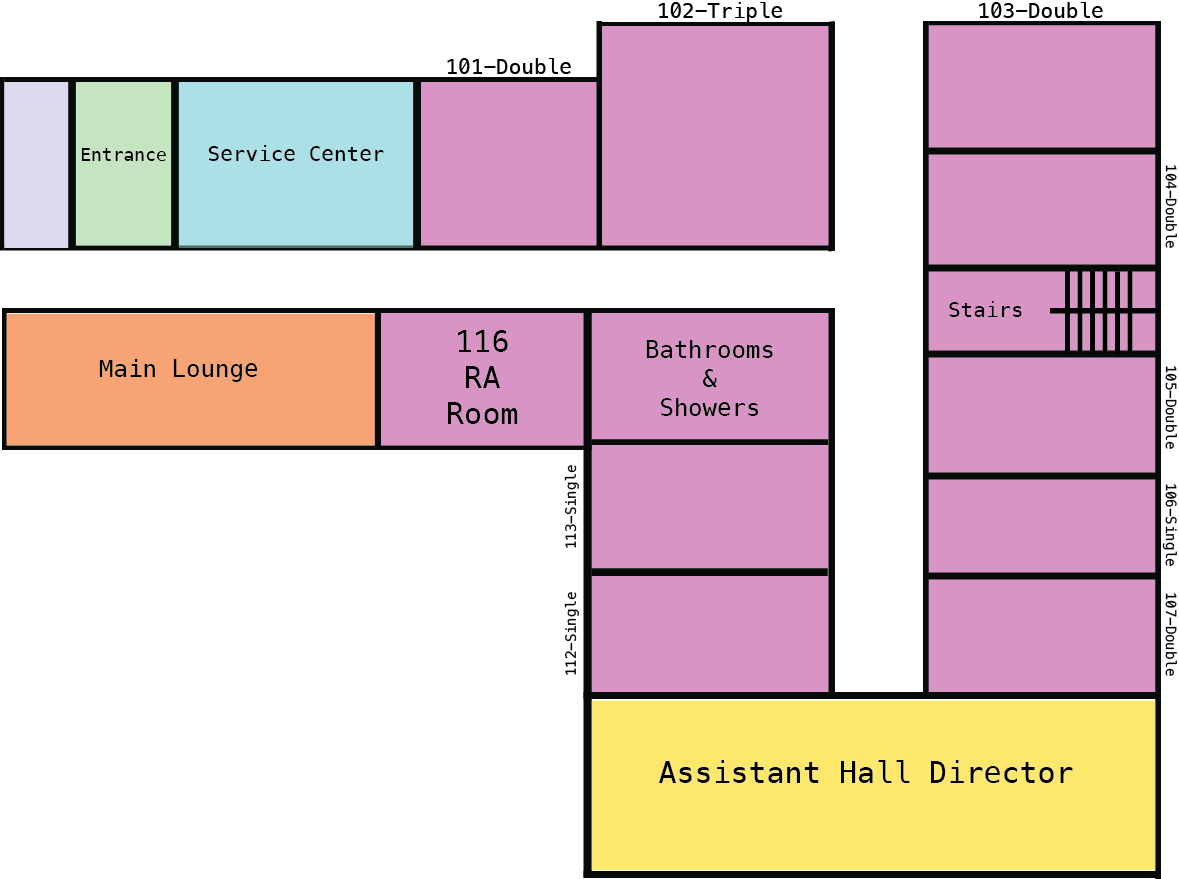
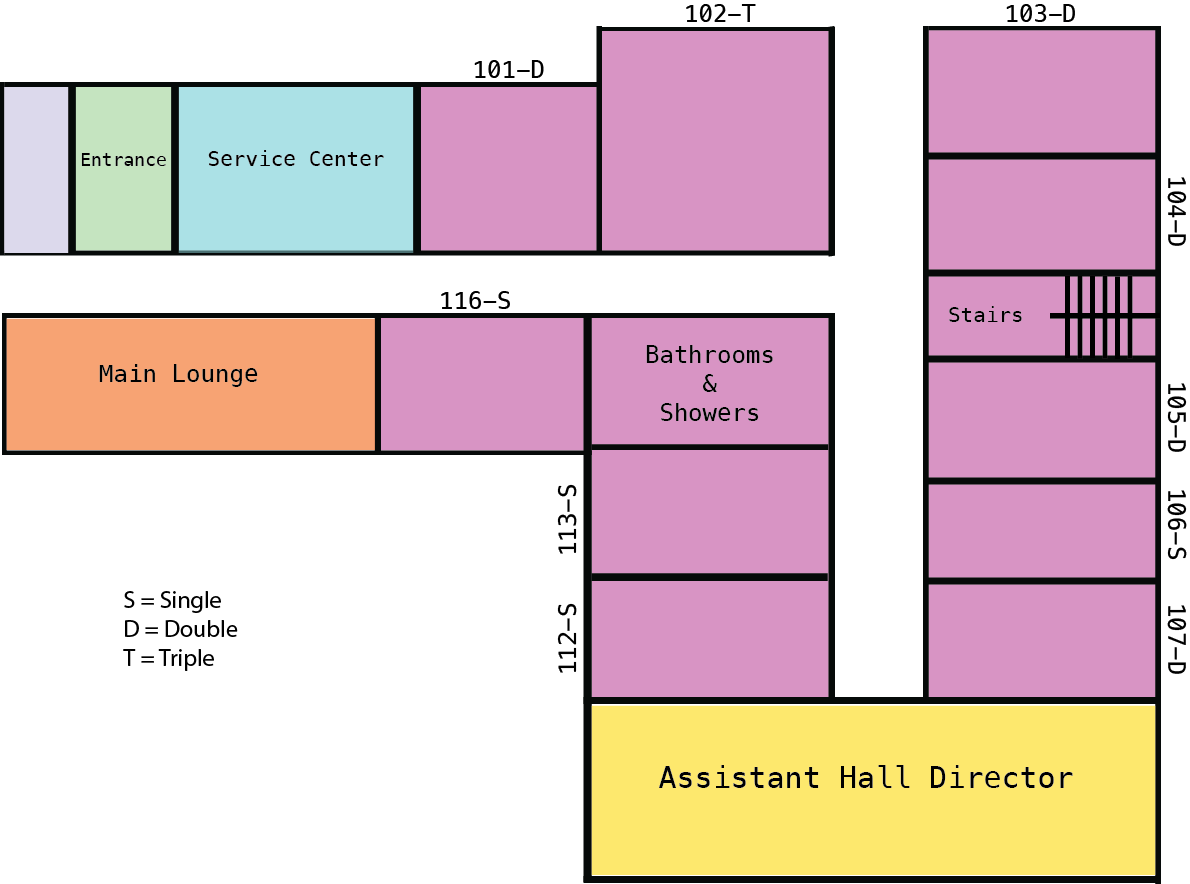
updating the pixal map for larsen and adding the basement

diff --git a/sr._Project/ProjectApp/static/pages/navigation-main.html b/sr._Project/ProjectApp/static/pages/navigation-main.html
@@ -95,145 +95,110 @@
 <div class = "larsen1" ng-show="currentBuilding === 'Larsen' && floorNumber == 1">
   <svg class="larsen1-svg">
 
-    <polygon class="clickable-building" points="293,36 415,35 416,107 294,107" ng-click="toggleRight(floorNumber, '01')"></polygon>
-    <polygon class="clickable-building" points="419,11 577,11 577,107 419,106" ng-click="toggleRight(floorNumber, '02')"></polygon>
-
-    <polygon class="clickable-building" points="647,11 804,11 803,64 647,64" ng-click="toggleRight(floorNumber, '03')"></polygon>
-    <polygon class="clickable-building" points="647,67 803,68 804,116 646,115" ng-click="toggleRight(floorNumber, '04')"></polygon>
-
-    <polygon class="clickable-building" points="647,156 803,156 803,207 646,206" ng-click="toggleRight(floorNumber, '05')"></polygon>
-    <polygon class="clickable-building" points="803,210 647,209 646,250 803,250" ng-click="toggleRight(floorNumber, '06')"></polygon>
-
-    <polygon class="clickable-building" points="647,254 803,254 803,303 646,303" ng-click="toggleRight(floorNumber, '07')"></polygon>
-    <polygon class="clickable-building" points=" 412,252 576,252 576,302 412,302" ng-click="toggleRight(floorNumber, '12')"></polygon>
-
-    <polygon class="clickable-building" points="412,195 577,195 577,248 412,248" ng-click="toggleRight(floorNumber, '13')"></polygon>
+    <polygon class="clickable-building" points="291,38 410,38 410,109 289,108" ng-click="toggleRight(floorNumber, '01')"></polygon>
+    <polygon class="clickable-building" points="415,14 571,14 571,109 415,109" ng-click="toggleRight(floorNumber, '02')"></polygon>
+    <polygon class="clickable-building" points="641,14 795,14 796,66 641,66" ng-click="toggleRight(floorNumber, '03')"></polygon>
+    <polygon class="clickable-building" points="641,70 796,70 795,117 640,117" ng-click="toggleRight(floorNumber, '04')"></polygon>
+    <polygon class="clickable-building" points="641,158 796,158 796,208 641,208" ng-click="toggleRight(floorNumber, '05')"></polygon>
+    <polygon class="clickable-building" points="640,211 795,212 796,252 639,251" ng-click="toggleRight(floorNumber, '06')"></polygon>
+    <polygon class="clickable-building" points="641,255 796,255 796,304 640,303" ng-click="toggleRight(floorNumber, '07')"></polygon>
+    <polygon class="clickable-building" points="408,253 570,253 571,303 407,303" ng-click="toggleRight(floorNumber, '12')"></polygon>
+    <polygon class="clickable-building" points="408,196 571,196 571,250 407,250" ng-click="toggleRight(floorNumber, '13')"></polygon>
+    <polygon class="clickable-building" points="263,138 402,138 401,196 262,196" ng-click="toggleRight(floorNumber, '16')"></polygon>
   </svg>
 </div>
+
+<div class = "larsenB" ng-show="currentBuilding === 'Larsen' && floorNumber == B">
+  <svg class="larsenB-svg">
+
+    <polygon class="clickable-building" points="7,283 290,281 292,344 9,345" ng-click="toggleRight(floorNumber, '008')"></polygon>
+    <polygon class="clickable-building" points="530,281 820,281 820,344 533,344" ng-click="toggleRight(floorNumber, '007')"></polygon>
+
+    <polygon class="clickable-building" points="530,206 818,206 818,280 530,281" ng-click="toggleRight(floorNumber, '006')"></polygon>
+    <polygon class="clickable-building" points="530,143 815,143 818,203 533,204" ng-click="toggleRight(floorNumber, '005')"></polygon>
+  </svg>
+</div>
+
 
 <div ng-repeat="floorClass in floorLaClasses track by $index" ng-class="floorClass" ng-show="currentBuilding === 'Larsen' && floorNumber == ($index + 2)">
-  <svg class="larson2-svg">
-
-    <polygon class="clickable-building" points="463,80 524,79 525,156 461,156" ng-click="toggleRight(floorNumber, '01')"></polygon>
-    <polygon class="clickable-building" points="589,43 679,42 680,156 589,155" ng-click="toggleRight(floorNumber, '02')"></polygon>
-
-    <polygon class="clickable-building" points="702,14 807,14 806,62 701,61" ng-click="toggleRight(floorNumber, '03')"></polygon>
-    <polygon class="clickable-building" points="702,197 806,198 806,235 702,235" ng-click="toggleRight(floorNumber, '04')"></polygon>
-
-    <polygon class="clickable-building" points="702,115 806,114 807,164 701,164" ng-click="toggleRight(floorNumber, '05')"></polygon>
-    <polygon class="clickable-building" points="168,252 227,261 213,343 156,335" ng-click="toggleRight(floorNumber, '06')"></polygon>
-
-    <polygon class="clickable-building" points="702,238 807,238 808,284 702,284" ng-click="toggleRight(floorNumber, '07')"></polygon>
-    <polygon class="clickable-building" points=" 702,286 806,286 807,326 702,326" ng-click="toggleRight(floorNumber, '08')"></polygon>
-
-    <polygon class="clickable-building" points="702,328 808,328 806,369 701,369" ng-click="toggleRight(floorNumber, '09')"></polygon>
-    <polygon class="clickable-building" points="592,331 681,331 681,370 592,370" ng-click="toggleRight(floorNumber, '10')"></polygon>
-
-    <polygon class="clickable-building" points="592,329 592,291 681,292 681,329" ng-click="toggleRight(floorNumber, '11')"></polygon>
-    <polygon class="clickable-building" points="593,245 591,290 681,289 680,246" ng-click="toggleRight(floorNumber, '12')"></polygon>
-
-    <polygon class="clickable-building" points="593,211 680,210 681,243 593,244" ng-click="toggleRight(floorNumber, '13')"></polygon>
-    <polygon class="clickable-building" points="526,176 589,175 588,241 526,241" ng-click="toggleRight(floorNumber, '16')"></polygon>
-
-    <polygon class="clickable-building" points="461,176 523,176 523,241 460,241" ng-click="toggleRight(floorNumber, '17')"></polygon>
-    <polygon class="clickable-building" points="379,176 458,176 457,241 379,241" ng-click="toggleRight(floorNumber, '18')"></polygon>
-
-    <polygon class="clickable-building" points="303,176 377,176 376,242 302,241" ng-click="toggleRight(floorNumber, '19')"></polygon>
-    <polygon class="clickable-building" points="141,205 231,205 231,241 141,241" ng-click="toggleRight(floorNumber, '23')"></polygon>
-
-    <polygon class="clickable-building" points="141,243 231,243 231,283 141,283" ng-click="toggleRight(floorNumber, '24')"></polygon>
-
-    <polygon class="clickable-building" points="141,285 230,285 231,324 140,324" ng-click="toggleRight(floorNumber, '25')"></polygon>
-    <polygon class="clickable-building" points="141,326 230,326 231,368 141,369" ng-click="toggleRight(floorNumber, '26')"></polygon>
-
-    <polygon class="clickable-building" points="12,330 115,330 115,368 12,368" ng-click="toggleRight(floorNumber, '27')"></polygon>
-    <polygon class="clickable-building" points="12,287 115,286 116,327 11,326" ng-click="toggleRight(floorNumber, '28')"></polygon>
-
-    <polygon class="clickable-building" points="12,245 12,284 116,284 115,246" ng-click="toggleRight(floorNumber, '29')"></polygon>
-    <polygon class="clickable-building" points="12,197 114,198 116,243 12,243" ng-click="toggleRight(floorNumber, '30')"></polygon>
-
-    <polygon class="clickable-building" points="13,152 115,152 115,195 12,195" ng-click="toggleRight(floorNumber, '31')"></polygon>
-    <polygon class="clickable-building" points="14,63 115,63 115,118 12,119" ng-click="toggleRight(floorNumber, '32')"></polygon>
-
-    <polygon class="clickable-building" points="115,13 12,14 11,60 117,61" ng-click="toggleRight(floorNumber, '33')"></polygon>
-
-    <polygon class="clickable-building" points="141,43 232,43 231,156 141,156" ng-click="toggleRight(floorNumber, '34')"></polygon>
-    <polygon class="clickable-building" points=" 235,79 301,79 300,156 235,156" ng-click="toggleRight(floorNumber, '35')"></polygon>
-
-    <polygon class="clickable-building" points="305,80 378,79 378,156 304,156" ng-click="toggleRight(floorNumber, '36')"></polygon>
-    <polygon class="clickable-building" points="382,79 458,79 458,157 382,156" ng-click="toggleRight(floorNumber, '37')"></polygon>
+  <svg class="larsen2-svg">
+    <polygon class="clickable-building" points="462,80 524,79 524,156 462,156" ng-click="toggleRight(floorNumber, '00')"></polygon>
+    <polygon class="clickable-building" points="527,80 584,79 585,156 527,156" ng-click="toggleRight(floorNumber, '01')"></polygon>
+    <polygon class="clickable-building" points="587,43 676,43 677,155 588,155" ng-click="toggleRight(floorNumber, '02')"></polygon>
+    <polygon class="clickable-building" points="699,14 802,14 803,62 699,62" ng-click="toggleRight(floorNumber, '03')"></polygon>
+    <polygon class="clickable-building" points="699,64 803,64 803,112 699,112" ng-click="toggleRight(floorNumber, '04')"></polygon>
+    <polygon class="clickable-building" points="699,114 803,114 803,164 699,164" ng-click="toggleRight(floorNumber, '05')"></polygon>
+    <polygon class="clickable-building" points="699,198 803,198 803,235 699,235" ng-click="toggleRight(floorNumber, '06')"></polygon>
+    <polygon class="clickable-building" points="699,238 803,238 803,283 699,283" ng-click="toggleRight(floorNumber, '07')"></polygon>
+    <polygon class="clickable-building" points="699,286 802,286 803,325 699,326" ng-click="toggleRight(floorNumber, '08')"></polygon>
+    <polygon class="clickable-building" points="699,328 803,328 803,369 699,369" ng-click="toggleRight(floorNumber, '09')"></polygon>
+    <polygon class="clickable-building" points="591,332 678,332 678,369 591,369" ng-click="toggleRight(floorNumber, '10')"></polygon>
+    <polygon class="clickable-building" points="591,291 678,292 678,330 591,329" ng-click="toggleRight(floorNumber, '11')"></polygon>
+    <polygon class="clickable-building" points="591,246 678,245 678,290 591,290" ng-click="toggleRight(floorNumber, '12')"></polygon>
+    <polygon class="clickable-building" points="591,211 678,211 678,243 591,243" ng-click="toggleRight(floorNumber, '13')"></polygon>
+    <polygon class="clickable-building" points="526,176 587,176 587,241 526,241" ng-click="toggleRight(floorNumber, '16')"></polygon>
+    <polygon class="clickable-building" points="460,176 522,176 522,241 460,241" ng-click="toggleRight(floorNumber, '17')"></polygon>
+    <polygon class="clickable-building" points="381,176 458,176 458,241 381,241" ng-click="toggleRight(floorNumber, '18')"></polygon>
+    <polygon class="clickable-building" points="304,176 377,176 378,241 303,241" ng-click="toggleRight(floorNumber, '19')"></polygon>
+    <polygon class="clickable-building" points="235,176 300,176 300,241 235,241" ng-click="toggleRight(floorNumber, '20')"></polygon>
+    <polygon class="clickable-building" points="144,205 232,205 233,241 145,241" ng-click="toggleRight(floorNumber, '23')"></polygon>
+    <polygon class="clickable-building" points="144,243 232,243 233,283 145,282" ng-click="toggleRight(floorNumber, '24')"></polygon>
+    <polygon class="clickable-building" points="145,285 145,324 232,324 232,285" ng-click="toggleRight(floorNumber, '25')"></polygon>
+    <polygon class="clickable-building" points="144,368 144,326 232,326 232,368" ng-click="toggleRight(floorNumber, '26')"></polygon>
+    <polygon class="clickable-building" points="17,330 119,329 119,368 17,368" ng-click="toggleRight(floorNumber, '27')"></polygon>
+    <polygon class="clickable-building" points="17,287 119,287 119,326 17,326" ng-click="toggleRight(floorNumber, '28')"></polygon>
+    <polygon class="clickable-building" points="17,246 119,246 119,284 17,284" ng-click="toggleRight(floorNumber, '29')"></polygon>
+    <polygon class="clickable-building" points="18,198 119,198 119,243 17,242" ng-click="toggleRight(floorNumber, '30')"></polygon>
+    <polygon class="clickable-building" points="18,153 119,152 118,195 17,195" ng-click="toggleRight(floorNumber, '31')"></polygon>
+    <polygon class="clickable-building" points="17,63 118,64 119,118 17,117" ng-click="toggleRight(floorNumber, '32')"></polygon>
+    <polygon class="clickable-building" points="17,13 119,14 119,60 17,60" ng-click="toggleRight(floorNumber, '33')"></polygon>
+    <polygon class="clickable-building" points="145,43 233,43 234,156 144,156" ng-click="toggleRight(floorNumber, '34')"></polygon>
+    <polygon class="clickable-building" points="237,79 302,80 302,156 237,156" ng-click="toggleRight(floorNumber, '35')"></polygon>
+    <polygon class="clickable-building" points="305,79 379,80 378,156 305,156" ng-click="toggleRight(floorNumber, '36')"></polygon>
+    <polygon class="clickable-building" points="382,80 458,79 459,156 381,156" ng-click="toggleRight(floorNumber, '37')"></polygon>
 
 
   </svg>
 </div>
 
-<div ng-repeat="floorClass in floorOlClasses track by $index" ng-class="floorClass" ng-show="currentBuilding === 'Olson' && floorNumber == ($index + 1)">
-  <svg class="larson2-svg">
+<div class = "olson1" ng-class="floorClass" ng-show="currentBuilding === 'Olson' && floorNumber == 1">
+  <svg class="larsen2-svg">
 
-    <polygon class="clickable-building" points="463,80 524,79 525,156 461,156" ng-click="toggleRight(floorNumber, '01')"></polygon>
-    <polygon class="clickable-building" points="589,43 679,42 680,156 589,155" ng-click="toggleRight(floorNumber, '02')"></polygon>
-
-    <polygon class="clickable-building" points="702,14 807,14 806,62 701,61" ng-click="toggleRight(floorNumber, '03')"></polygon>
-    <polygon class="clickable-building" points="702,197 806,198 806,235 702,235" ng-click="toggleRight(floorNumber, '04')"></polygon>
-
-    <polygon class="clickable-building" points="702,115 806,114 807,164 701,164" ng-click="toggleRight(floorNumber, '05')"></polygon>
-    <polygon class="clickable-building" points="168,252 227,261 213,343 156,335" ng-click="toggleRight(floorNumber, '06')"></polygon>
-
-    <polygon class="clickable-building" points="702,238 807,238 808,284 702,284" ng-click="toggleRight(floorNumber, '07')"></polygon>
-    <polygon class="clickable-building" points=" 702,286 806,286 807,326 702,326" ng-click="toggleRight(floorNumber, '08')"></polygon>
-
-    <polygon class="clickable-building" points="702,328 808,328 806,369 701,369" ng-click="toggleRight(floorNumber, '09')"></polygon>
-    <polygon class="clickable-building" points="592,331 681,331 681,370 592,370" ng-click="toggleRight(floorNumber, '10')"></polygon>
-
-    <polygon class="clickable-building" points="592,329 592,291 681,292 681,329" ng-click="toggleRight(floorNumber, '11')"></polygon>
-    <polygon class="clickable-building" points="593,245 591,290 681,289 680,246" ng-click="toggleRight(floorNumber, '12')"></polygon>
-
-    <polygon class="clickable-building" points="593,211 680,210 681,243 593,244" ng-click="toggleRight(floorNumber, '13')"></polygon>
-    <polygon class="clickable-building" points="526,176 589,175 588,241 526,241" ng-click="toggleRight(floorNumber, '16')"></polygon>
-
-    <polygon class="clickable-building" points="461,176 523,176 523,241 460,241" ng-click="toggleRight(floorNumber, '17')"></polygon>
-    <polygon class="clickable-building" points="379,176 458,176 457,241 379,241" ng-click="toggleRight(floorNumber, '18')"></polygon>
-
-    <polygon class="clickable-building" points="303,176 377,176 376,242 302,241" ng-click="toggleRight(floorNumber, '19')"></polygon>
-    <polygon class="clickable-building" points="141,205 231,205 231,241 141,241" ng-click="toggleRight(floorNumber, '23')"></polygon>
-
-    <polygon class="clickable-building" points="141,243 231,243 231,283 141,283" ng-click="toggleRight(floorNumber, '24')"></polygon>
-
-    <polygon class="clickable-building" points="141,285 230,285 231,324 140,324" ng-click="toggleRight(floorNumber, '25')"></polygon>
-    <polygon class="clickable-building" points="141,326 230,326 231,368 141,369" ng-click="toggleRight(floorNumber, '26')"></polygon>
-
-    <polygon class="clickable-building" points="12,330 115,330 115,368 12,368" ng-click="toggleRight(floorNumber, '27')"></polygon>
-    <polygon class="clickable-building" points="12,287 115,286 116,327 11,326" ng-click="toggleRight(floorNumber, '28')"></polygon>
-
-    <polygon class="clickable-building" points="12,245 12,284 116,284 115,246" ng-click="toggleRight(floorNumber, '29')"></polygon>
-    <polygon class="clickable-building" points="12,197 114,198 116,243 12,243" ng-click="toggleRight(floorNumber, '30')"></polygon>
-
-    <polygon class="clickable-building" points="13,152 115,152 115,195 12,195" ng-click="toggleRight(floorNumber, '31')"></polygon>
-    <polygon class="clickable-building" points="14,63 115,63 115,118 12,119" ng-click="toggleRight(floorNumber, '32')"></polygon>
-
-    <polygon class="clickable-building" points="115,13 12,14 11,60 117,61" ng-click="toggleRight(floorNumber, '33')"></polygon>
-
-    <polygon class="clickable-building" points="141,43 232,43 231,156 141,156" ng-click="toggleRight(floorNumber, '34')"></polygon>
-    <polygon class="clickable-building" points=" 235,79 301,79 300,156 235,156" ng-click="toggleRight(floorNumber, '35')"></polygon>
-
-    <polygon class="clickable-building" points="305,80 378,79 378,156 304,156" ng-click="toggleRight(floorNumber, '36')"></polygon>
-    <polygon class="clickable-building" points="382,79 458,79 458,157 382,156" ng-click="toggleRight(floorNumber, '37')"></polygon>
-
-
+    <polygon class="clickable-building" points="4,26 191,26 191,168 4,168" ng-click="toggleRight(floorNumber, '01')"></polygon>
+    <polygon class="clickable-building" points="4,219 69,219 69,361 3,361" ng-click="toggleRight(floorNumber, '02')"></polygon>
+    <polygon class="clickable-building" points="72,219 146,219 147,361 72,361" ng-click="toggleRight(floorNumber, '04')"></polygon>
+    <polygon class="clickable-building" points="298,26 504,26 504,168 298,168" ng-click="toggleRight(floorNumber, '05')"></polygon>
+    <polygon class="clickable-building" points="204,219 399,219 398,361 204,360" ng-click="toggleRight(floorNumber, '06')"></polygon>
+    <polygon class="clickable-building" points="508,26 693,26 693,168 507,168" ng-click="toggleRight(floorNumber, '07')"></polygon>
+    <polygon class="clickable-building" points="402,219 608,219 608,361 402,361" ng-click="toggleRight(floorNumber, '08')"></polygon>
+    <polygon class="clickable-building" points="697,26 817,26 816,168 697,168 " ng-click="toggleRight(floorNumber, '09')"></polygon>
+    <polygon class="clickable-building" points="611,219 816,219 816,361 611,360" ng-click="toggleRight(floorNumber, '10')"></polygon>
   </svg>
 </div>
-<!--<div class="larsen3" ng-show="currentBuilding === 'Larsen' && floorNumber == 3">
-  <svg class="larsen3-svg">
+
+<div class = "olson2" ng-class="floorClass" ng-show="currentBuilding === 'Olson' && floorNumber == 2">
+  <svg class="larsen2-svg">
+
+    <polygon class="clickable-building" points="4,5 191,5 191,155 4,155" ng-click="toggleRight(floorNumber, '01')"></polygon>
+    <polygon class="clickable-building" points="69,359 69,209 3,209 3,359 " ng-click="toggleRight(floorNumber, '02')"></polygon>
+    <polygon class="clickable-building" points="72,209 147,209 147,359 72,359" ng-click="toggleRight(floorNumber, '04')"></polygon>
+    <polygon class="clickable-building" points="298,5 504,5 504,155 298,155 " ng-click="toggleRight(floorNumber, '05')"></polygon>
+    <polygon class="clickable-building" points="204,359 398,359 398,209 204,209" ng-click="toggleRight(floorNumber, '06')"></polygon>
+    <polygon class="clickable-building" points="507,5 693,5 693,155 507,155" ng-click="toggleRight(floorNumber, '07')"></polygon>
+    <polygon class="clickable-building" points="402,209 607,209 608,359 402,359" ng-click="toggleRight(floorNumber, '08')"></polygon>
+    <polygon class="clickable-building" points="611,209 816,209 816,359 611,359" ng-click="toggleRight(floorNumber, '10')"></polygon>
   </svg>
 </div>
--->
-
 
 <div class = "olson3" ng-show="currentBuilding === 'Olson' && floorNumber == 3">
-  <svg class="larson2-svg">
+  <svg class="larsen2-svg">
+
+<polygon class="clickable-building" points="4,26 79,25 79,171 4,171" ng-click="toggleRight(floorNumber, '348')"></polygon>
+<polygon class="clickable-building" points="82,25 154,25 154,171 82,171 " ng-click="toggleRight(floorNumber, '346')"></polygon>
 
     <polygon class="clickable-building" points="200,26 286,25 287,169 200,170" ng-click="toggleRight(floorNumber, '344')"></polygon>
     <polygon class="clickable-building" points="290,24 378,24 377,170 290,169" ng-click="toggleRight(floorNumber, '342')"></polygon>
+
 
     <polygon class="clickable-building" points="380,24 461,23 461,169 380,169" ng-click="toggleRight(floorNumber, '340')"></polygon>
     <polygon class="clickable-building" points="464,24 551,23 551,170 464,171" ng-click="toggleRight(floorNumber, '338')"></polygon>

diff --git a/sr._Project/ProjectApp/static/css/building.css b/sr._Project/ProjectApp/static/css/building.css
@@ -208,6 +208,19 @@
   height: 385px;
 }
 
+.larsenB {
+  background-image: url("../img/LarsenB.png");
+  width: 820px;
+  height: 385px;
+  background-size: 820px 385px;
+  float:left;
+}
+.larsenB-svg {
+  width: 820px;
+  height: 385px;
+}
+
+
 .larsen1 {
   background-image: url("../img/Larsen1.png");
   width: 820px;
